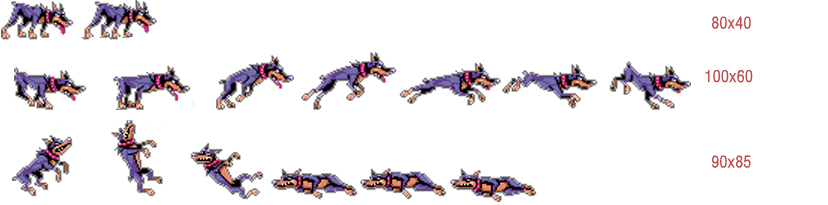
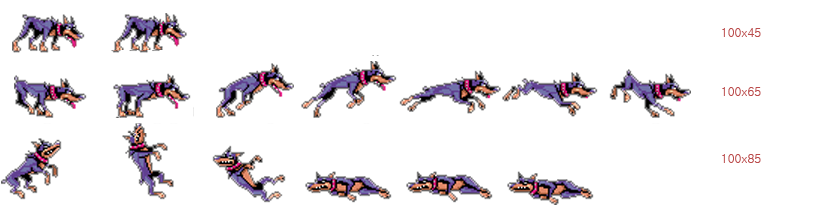
Fix Character image

diff --git a/character_object.py b/character_object.py
@@ -16,7 +16,7 @@ characters ={
         0 : {"frame" : 4, "bottom" : 174, "width" : 30, "height" : 40},     #idle
         1 : {"frame" : 8, "bottom" : 126, "width" : 42, "height" : 38},      #run
         2 : {"frame" : 2, "bottom" : 71, "width" : 40, "height" : 45},       #sturn
-        3 : {"frame" : 5, "bottom" : 37, "width" : 34, "height" : 34},
+        3 : {"frame" : 6, "bottom" : 0, "width" : 32, "height" : 27},       #skill
         "speed" : 6,
         "cooldown_time" : 10,
         "hording_time" : 3,
@@ -29,11 +29,11 @@ characters ={
         "speed" : 2,
         "cooldown_time" : 0,
         "hording_time" : 0,
-    },'kirky' : {
+    },'kirby' : {
         "size" : [50, 70],
-        0 : {"frame" : 6, "bottom" : 100, "width" : 43, "height" : 38},     #idle
-        1 : {"frame" : 4, "bottom" : 52, "width" : 48, "height" : 38},      #run
-        2 : {"frame" : 4, "bottom" : 0, "width" : 42, "height" : 42},       #sturn
+        0 : {"frame" : 6, "bottom" : 85, "width" : 50, "height" : 40},     #idle
+        1 : {"frame" : 4, "bottom" : 45, "width" : 50, "height" : 40},      #run
+        2 : {"frame" : 4, "bottom" : 0, "width" : 50, "height" : 45},       #sturn
         3 : None,
         "speed" : 2,
         "cooldown_time" : 0,
@@ -49,8 +49,8 @@ characters ={
         "hording_time" : 0,
     },'ghost' : {
         "size" : [50, 70],
-        0 : {"frame" : 8, "bottom" : 62, "width" : 82, "height" : 62},     #idle
-        1 : {"frame" : 6, "bottom" : 0, "width" : 82, "height" : 52},      #run
+        0 : {"frame" : 8, "bottom" : 65, "width" : 75, "height" : 63},     #idle
+        1 : {"frame" : 6, "bottom" : 0, "width" : 75, "height" : 55},      #run
         2 : None,
         3 : None,
         "speed" : 6,
@@ -58,14 +58,50 @@ characters ={
         "hording_time" : 0,
     },'pikachu' : {
         "size" : [50, 70],
-        0 : {"frame" : 4, "bottom" : 101, "width" : 60, "height" : 44},     #idle
-        1 : {"frame" : 4, "bottom" : 59, "width" : 60, "height" : 32},      #run
-        2 : {"frame" : 3, "bottom" : 0, "width" : 60, "height" : 49},      #run
+        0 : {"frame" : 4, "bottom" : 85, "width" : 60, "height" : 45},     #idle
+        1 : {"frame" : 4, "bottom" : 50, "width" : 60, "height" : 35},      #run
+        2 : {"frame" : 3, "bottom" : 0, "width" : 60, "height" : 50},      #run
         3 : None,
         "speed" : 4,
         "cooldown_time" : 0,
         "hording_time" : 0,
-    }
+    },'among' : {
+        "size" : [50, 70],
+        0 : {"frame" : 1, "bottom" : 110, "width" : 30, "height" : 25},     
+        1 : {"frame" : 4, "bottom" : 75, "width" : 30, "height" : 25},      
+        2 : {"frame" : 4, "bottom" : 35, "width" : 30, "height" : 30},      
+        3 : {"frame" : 4, "bottom" : 0, "width" : 30, "height" : 25},      
+        "speed" : 4,
+        "cooldown_time" : 0,
+        "hording_time" : 0,
+    },'dog' : {
+        "size" : [50, 70],
+        0 : {"frame" : 2, "bottom" : 150, "width" : 100, "height" : 45},     
+        1 : {"frame" : 7, "bottom" : 85, "width" : 100, "height" : 65},      
+        2 : {"frame" : 6, "bottom" : 0, "width" : 100, "height" : 85},      
+        3 : None,
+        "speed" : 4,
+        "cooldown_time" : 0,
+        "hording_time" : 0,
+    },'human' : {
+        "size" : [50, 70],
+        0 : {"frame" : 1, "bottom" : 158, "width" : 38, "height" : 42},     #idle
+        1 : {"frame" : 4, "bottom" : 108, "width" : 38, "height" : 40},      #run
+        2 : {"frame" : 2, "bottom" : 52, "width" : 38, "height" : 46},      #sturn
+        3 : {"frame" : 3, "bottom" : 0, "width" : 38, "height" : 42},      #skill
+        "speed" : 4,
+        "cooldown_time" : 0,
+        "hording_time" : 0,
+    },'icarus' : {
+        "size" : [50, 70],
+        0 : {"frame" : 4, "bottom" : 204, "width" : 65, "height" : 60},     #idle
+        1 : {"frame" : 6, "bottom" : 144, "width" : 65, "height" : 60},      #run
+        2 : {"frame" : 8, "bottom" : 84, "width" : 65, "height" : 60},      #run
+        3 : {"frame" : 4, "bottom" : 24, "width" : 65, "height" : 60},
+        "speed" : 4,
+        "cooldown_time" : 0,
+        "hording_time" : 0,
+    },
 }
 
 class Character:
@@ -100,15 +136,15 @@ class Character:
 
     def draw_character(self):
         self.set_animation()
-        self.image.clip_draw(8+self.frameSize[0]*self.frame, self.frameSize[1], self.frameSize[2], self.frameSize[3], self.x, self.y, 50, 80)
+        self.image.clip_draw(self.frameSize[0]*self.frame, self.frameSize[1], self.frameSize[2], self.frameSize[3], self.x, self.y, 50, 80)
 
     def update(self):
         self.frame = (self.frame + 1) % self.frameNum
-
         self.skill(time.time())
 
         self.x += (self.dirX) * self.speed
         self.y += (self.dirY) * self.speed
+
         if self.y >= 520:
             self.y = 519
         elif self.y <= 90:
@@ -123,5 +159,40 @@ class Character:
             if eTime - self.active_skill_time <= self.character['hording_time']:
                 self.speed = 5
                 self.state = 3
+
+    def handle_events(self, event):
+        if event.type == SDL_KEYDOWN:
+            match event.key:
+                case pico2d.SDLK_UP:
+                    self.dirY += 1
+                    self.state = 1
+                case pico2d.SDLK_DOWN:
+                    self.dirY -= 1
+                    self.state = 1
+                case pico2d.SDLK_RIGHT:
+                    self.dirX += 1
+                    self.state = 1
+                case pico2d.SDLK_r:
+                    self.state = 3
+                    pass
+                case pico2d.SDLK_d:
+                    #character sprite test
+                    self.state = 2
+        elif event.type == SDL_KEYUP:
+            match event.key:
+                case pico2d.SDLK_UP:
+                    self.dirY -= 1
+                    self.state = 0
+                case pico2d.SDLK_DOWN:
+                    self.dirY += 1
+                    self.state = 0
+                case pico2d.SDLK_RIGHT:
+                    self.dirX -= 1
+                    self.state = 0
+                case pico2d.SDLK_r:
+                    self.state = 0
+                case pico2d.SDLK_d:
+                    self.state = 0
+                    pass
         
         

diff --git a/play_state.py b/play_state.py
@@ -15,13 +15,12 @@ difficulty = 0
 def enter():
     global player, background, running
     #print(type(random.choice(characters.keys())))
-    player = Character('Patrick_Star', 30, 90)
+    player = Character('turtle', 30, 90)
     background = Background()
     running = True
 
 def exit():
     global player, background
-    del player
     del background
 
 def update():
@@ -32,39 +31,16 @@ def draw():
     background.draw()
     player.draw_character()
     update_canvas()
+    delay(0.05)
 
 def handle_events():
         for event in get_events():
             if event.type == SDL_QUIT:
                 game_framework.quit()
-            elif event.type == SDL_KEYDOWN:
-                if event.key == SDLK_ESCAPE:
-                    game_framework.change_state(lobby_state)
-                elif event.key == SDLK_RIGHT:
-                    player.dirX += 1
-                    player.state = 1
-                elif event.key == SDLK_UP:
-                    player.dirY += 1
-                    player.state = 1
-                elif event.key == SDLK_DOWN:
-                    player.dirY -= 1
-                    player.state = 1
-                elif event.key == SDLK_r:
-                    if player.available_skill:
-                        player.available_skill = False
-                        player.active_skill_time = time.time()
-            elif event.type == SDL_KEYUP:
-                if event.key == SDLK_UP:
-                    player.dirY -= 1
-                    player.state = 0
-                elif event.key == SDLK_DOWN:
-                    player.state = 0
-                    player.dirY += 1
-                elif event.key == SDLK_RIGHT:
-                    player.state = 0
-                    player.dirX -= 1
-                elif event.key == SDLK_r:
-                    pass
-        delay(0.05)
+            elif (event.type, event.key) == (SDL_KEYDOWN, SDLK_ESCAPE):
+                game_framework.change_state(lobby_state)
+            else:
+                player.handle_events(event)
+        
             
     

diff --git a/lobby_state.py b/lobby_state.py
@@ -7,9 +7,10 @@ image = None
 difficulty = 0
 d_image = []
 def enter():
-    global image, d_image
+    global image, d_image, difficulty
     image = load_image('res/title.png')
     d_image = [ load_image('res/easy.png'), load_image('res/normal.png'), load_image('res/hard.png') ]
+    difficulty = 0
     
 
 def exit():

diff --git a/mygame.py b/mygame.py
@@ -6,5 +6,5 @@ import play_state
 start_state = logo_state
 
 pico2d.open_canvas()
-game_framework.run(logo_state)
+game_framework.run(play_state)
 pico2d.close_canvas()
